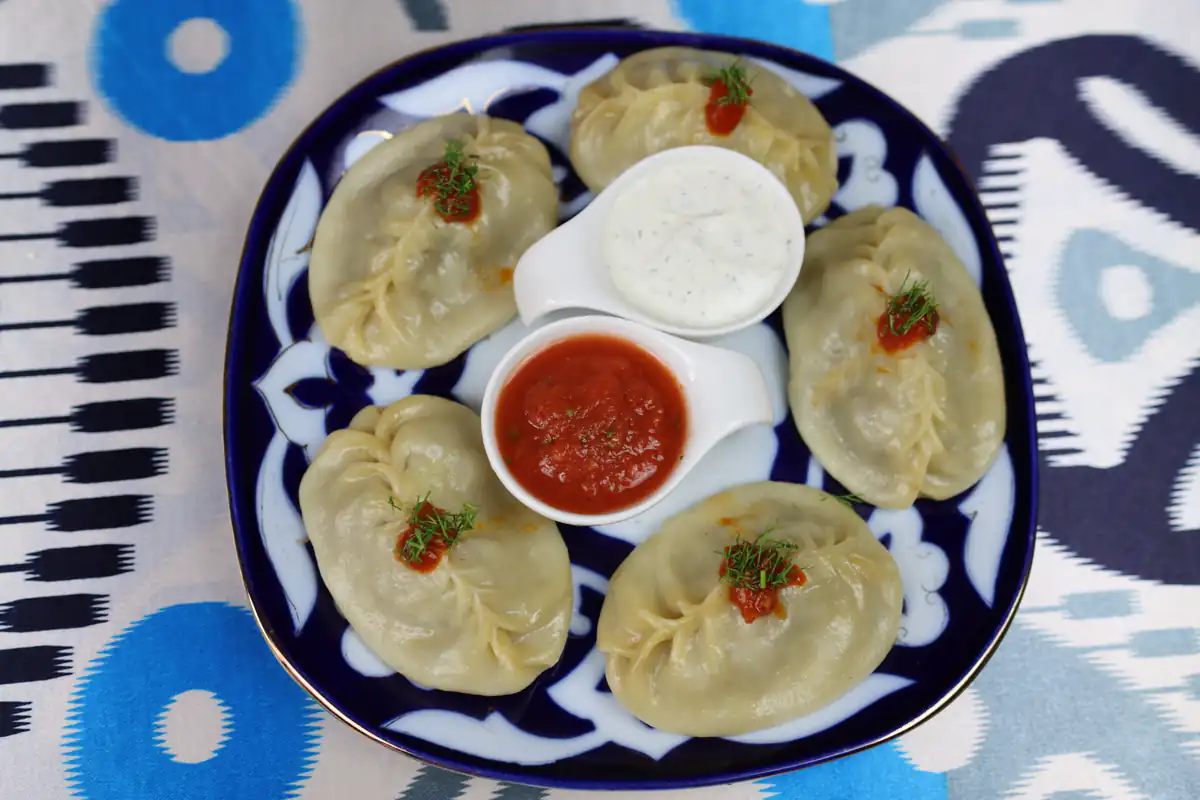
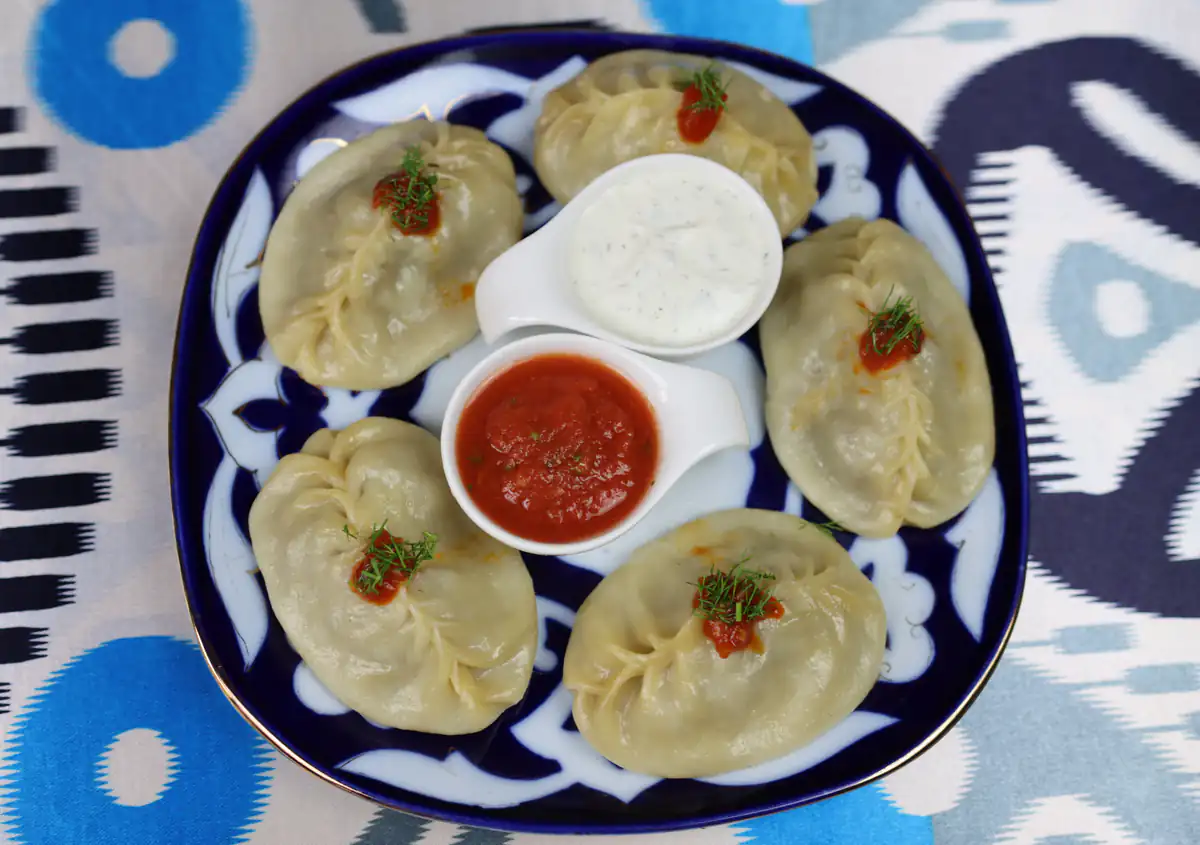
minor changes

diff --git a/client/src/pages/Home.tsx b/client/src/pages/Home.tsx
@@ -11,14 +11,15 @@ import { Button } from "@/components/ui/button";
 // Lazy load BookingForm to reduce initial bundle size
 const BookingForm = lazy(() => import("@/components/BookingForm"));
 
-import heroImage from "@assets/stock_images/hero.jpg";
-import plovImage from "@assets/stock_images/menu/osh.webp";
-import mantyImage from "@assets/stock_images/manty_dumplings_cent_45246789.jpg";
+import heroImage from "@assets/stock_images/hero.webp";
+import mantyImage from "@assets/stock_images/manty_dumplings_cent_45246789.webp";
 import interiorImage from "@assets/stock_images/cozy_warm_restaurant_5c6c7aae.jpg";
-import samsaImage from "@assets/stock_images/menu/Somsa.jpg";
-import shashlikImage from "@assets/stock_images/menu/shashlyk-meat-centralasia-food.webp";
+import samsaImage from "@assets/stock_images/menu/Somsa.webp";
 import teaImage from "@assets/stock_images/menu/tea_1.webp";
 import carpetImage from "@assets/stock_images/persian_carpet.webp";
+import plovImage from "@assets/stock_images/menu/palov.webp";
+import shashlikImage from "@assets/stock_images/menu/Schaschlik_vom_Lamm.webp";
+import kazanKebabImage from "@assets/stock_images/menu/Kazan_Kebab.webp";
 
 const langNames: Record<Language, string> = {
   de: "Deutsch",
@@ -460,7 +461,7 @@ export default function Home() {
             <MenuCard image={mantyImage} title={t.menu.dishes.manty.name} desc={t.menu.dishes.manty.desc} price="23.90€" />
             <MenuCard image={samsaImage} title={t.menu.dishes.somsa.name} desc={t.menu.dishes.somsa.desc} price="11.90€" />
             <MenuCard image={shashlikImage} title={t.menu.dishes.schaschlikvomlamm.name} desc={t.menu.dishes.schaschlikvomlamm.desc} price="26.90€" />
-            <MenuCard image={""} title={t.menu.dishes.kazankebab.name} desc={t.menu.dishes.kazankebab.desc} price="26.90€" />
+            <MenuCard image={kazanKebabImage} title={t.menu.dishes.kazankebab.name} desc={t.menu.dishes.kazankebab.desc} price="26.90€" />
             <MenuCard image={teaImage} title={t.menu.dishes.kannetee06jasmin.name} desc={t.menu.dishes.kannetee06jasmin.desc} price="6.50€" />
           </div>
           
@@ -554,11 +555,6 @@ export default function Home() {
                      </a>
                    </div>
                  </div>
-
-                 <div className="flex gap-4 mt-4">
-                   <Button className="flex-1 bg-foreground text-background hover:bg-foreground/90">{t.location.get_directions}</Button>
-                   <Button variant="outline" className="flex-1">{t.location.call_us}</Button>
-                 </div>
                </div>
             </motion.div>
 
@@ -589,8 +585,6 @@ export default function Home() {
               <div className="absolute bottom-0 left-0 w-16 h-16 border-b-4 border-l-4 border-accent/20 rounded-bl-3xl"></div>
 
               <h2 className="text-3xl font-heading font-bold mb-8">{t.contact.title}</h2>
-              <p className="text-muted-foreground mb-8">{t.contact.catering}</p>
-
               <Suspense fallback={<div className="text-center py-8 text-muted-foreground">Loading form...</div>}>
                 <BookingForm lang={lang} />
               </Suspense>

diff --git a/client/src/lib/i18n.ts b/client/src/lib/i18n.ts
@@ -79,7 +79,7 @@ export const translations = {
         time: "Uhrzeit",
         message: "Nachricht (Optional)",
         submit: "Anfrage senden",
-        success: "Ihre Reservierungsanfrage wurde erfolgreich gesendet! Wir melden uns in Kürze.",
+        success: "Ihre Reservierungsanfrage wurde erfolgreich übermittelt.\nWir prüfen die Verfügbarkeit und melden uns in Kürze bei Ihnen.",
         error: "Es gab ein Problem beim Senden. Bitte versuchen Sie es erneut."
       },
       fallback: "Funktioniert das Formular nicht? Schreiben Sie uns:",
@@ -359,7 +359,7 @@ export const translations = {
       catering: "So'rov bo'yicha ketering xizmati mavjud."
     },
     footer: {
-      impressum: "Impressum",
+      impressum: "Huquqiy ma'lumot",
       privacy: "Maxfiylik siyosati",
       rights: "Barcha huquqlar himoyalangan."
     }

diff --git a/client/src/pages/PlovFrankfurt.tsx b/client/src/pages/PlovFrankfurt.tsx
@@ -3,9 +3,9 @@ import { Button } from "@/components/ui/button";
 import { MapPinIcon as MapPin, PhoneIcon as Phone, ClockIcon as Clock, CheckIcon as Check, ArrowRightIcon as ArrowRight } from "@/components/icons";
 import { useSeoMeta } from "@/lib/seo";
 
-import heroImage from "@assets/stock_images/menu/osh.webp";
-import plovImage from "@assets/stock_images/menu/osh.webp";
-import mantyImage from "@assets/stock_images/manty_dumplings_cent_45246789.jpg";
+import heroImage from "@assets/stock_images/hero.webp";
+import mantyImage from "@assets/stock_images/manty_dumplings_cent_45246789.webp";
+import plovImage from "@assets/stock_images/menu/palov.webp";
 import teaImage from "@assets/stock_images/menu/tea_1.webp";
 import interiorImage from "@assets/stock_images/cozy_warm_restaurant_5c6c7aae.jpg";
 

diff --git a/client/src/pages/UsbekischesRestaurant.tsx b/client/src/pages/UsbekischesRestaurant.tsx
@@ -3,9 +3,9 @@ import { Button } from "@/components/ui/button";
 import { MapPinIcon as MapPin, PhoneIcon as Phone, ClockIcon as Clock, CheckIcon as Check, ArrowRightIcon as ArrowRight } from "@/components/icons";
 import { useSeoMeta } from "@/lib/seo";
 
-import heroImage from "@assets/stock_images/hero.jpg";
-import plovImage from "@assets/stock_images/menu/osh.webp";
-import mantyImage from "@assets/stock_images/manty_dumplings_cent_45246789.jpg";
+import heroImage from "@assets/stock_images/hero.webp";
+import mantyImage from "@assets/stock_images/manty_dumplings_cent_45246789.webp";
+import plovImage from "@assets/stock_images/menu/palov.webp";
 import interiorImage from "@assets/stock_images/cozy_warm_restaurant_5c6c7aae.jpg";
 
 export default function UsbekischesRestaurant() {

diff --git a/client/src/pages/HalalRestaurant.tsx b/client/src/pages/HalalRestaurant.tsx
@@ -3,9 +3,9 @@ import { Button } from "@/components/ui/button";
 import { MapPinIcon as MapPin, PhoneIcon as Phone, ClockIcon as Clock, CheckIcon as Check, ArrowRightIcon as ArrowRight } from "@/components/icons";
 import { useSeoMeta } from "@/lib/seo";
 
-import heroImage from "@assets/stock_images/menu/shashlyk-meat-centralasia-food.webp";
+import heroImage from "@assets/stock_images/hero.webp";
 import teaImage from "@assets/stock_images/menu/tea_1.webp";
-import samsaImage from "@assets/stock_images/menu/Somsa.jpg";
+import samsaImage from "@assets/stock_images/menu/Somsa.webp";
 import interiorImage from "@assets/stock_images/cozy_warm_restaurant_5c6c7aae.jpg";
 
 export default function HalalRestaurant() {

diff --git a/client/src/pages/MenuPage.tsx b/client/src/pages/MenuPage.tsx
@@ -110,7 +110,7 @@ const fullMenu = {
       image: null,
       price: '10.90€',
       dietary: 'vegetarian',
-      names: { de: 'Knäckiger Start', en: 'Crunchy Start', ru: 'Хрустящая закуска', uz: 'Хрустящая закуска' },
+      names: { de: 'Knäckiger Start', en: 'Crunchy Start', ru: 'Хрустящая закуска', uz: 'Xırtıldagan boshlanish' },
       descs: {
         de: 'Sauergürkensalat - Bestehend aus hauseingeleg ten sauren Gurken, Tomaten und Weißkohl.',
         en: 'Assortment of home-made pickled cucumbers, tomatoes, and cabbage.',

diff --git a/scripts/optimize-images.js b/scripts/optimize-images.js
@@ -35,7 +35,7 @@ const imageSettings = {
 const fileSettings = {
   'hero.JPG': 'hero',
   'persian_carpet.webp': 'background',
-  'cozy_warm_restaurant_5c6c7aae.webp': 'interior',
+  'cozy_warm_restaurant_5c6c7aae.jpg': 'interior',
   'manty_dumplings_cent_45246789.webp': 'menu',
   // Menu images
   'osh.webp': 'menu',

diff --git a/client/src/components/BookingForm.tsx b/client/src/components/BookingForm.tsx
@@ -98,6 +98,7 @@ export default function BookingForm({ lang }: BookingFormProps) {
           title: "Success!",
           description: t.contact.form.success,
           variant: "default",
+          duration: Infinity,
         });
         reset();
       } else {
